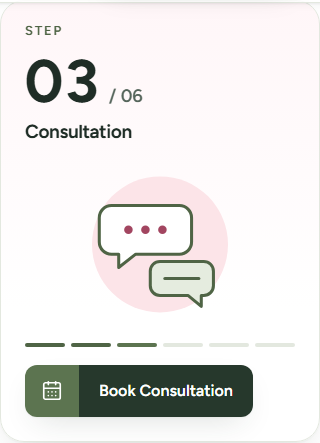
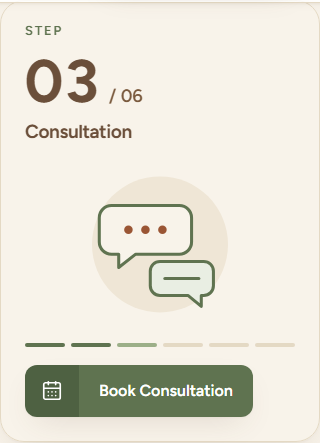
08-9: styleguide palette sync, contrast fixes, e2e green
Generated with [Devin](https://devin.ai)

diff --git a/src/app/styleguide/page.tsx b/src/app/styleguide/page.tsx
@@ -48,21 +48,21 @@ export const metadata: Metadata = {
 };
 
 const swatches: [string, string, string, string][] = [
-  ["#5C7450", "Primary · logo sage", "5.16:1 on white", "--primary"],
-  ["#26382C", "Secondary · deep moss", "12.47:1", "--secondary"],
-  ["#4F6445", "Sage text", "6.48:1 · links, eyebrows", "--primary-500"],
-  ["#3E5236", "Sage pressed", "8.52:1", "--primary-700"],
-  ["#E5ECDF", "Sage tint", "tabs, chips, tiles", "--primary-100"],
-  ["#F4F7F1", "Sage wash", "section tints", "--primary-50"],
-  ["#FCE4E8", "Blush · logo background", "washes, soft panels", "--blush-100"],
-  ["#FFF6F8", "Blush wash", "hero and section tints", "--blush-50"],
-  ["#A24560", "Rose · accent word", "5.90:1 · italic accent only", "--rose"],
-  ["#1F2D26", "Ink", "text · 14.37:1", "--ink"],
-  ["#55655B", "Ink soft", "captions · 6.18:1", "--ink-2"],
-  ["#E3E8DF", "Line", "borders", "--line"],
-  ["#A8C49A", "Sage light", "glow only", "--glow"],
-  ["#F4B3C1", "Blush rose", "glow only", "--accent"],
-  ["#C8302A", "Alert red", "emergency · 5.37:1", "--alert"],
+  ["#F8F3EA", "Cream · page background", "~55-60% of surfaces · bg only", "--cream"],
+  ["#FFFFFF", "White · cards, photo frames", "~20% · bg only", "--white"],
+  ["#EFE6D6", "Sand · footer, warm panels", "~10% · bg only", "--sand"],
+  ["#E9EEE3", "Sage tint · feature bands", "~8% · bg only", "--sage-tint"],
+  ["#9CAF88", "Sage · brand, line art, icons", "decoration · never text", "--sage"],
+  ["#5F7350", "Sage deep · buttons, links", "white text 5.18:1", "--sage-deep"],
+  ["#4E6142", "Sage deep 2 · button icon block", "white icon 6.75:1", "--sage-deep-2"],
+  ["#6B4F3A", "Brown · headings and body", "text · 6.77:1 on cream", "--brown"],
+  ["#7A5A3E", "Brown soft · muted text", "text · 5.66:1 on cream", "--ink-2"],
+  ["#C17F5A", "Terracotta · heart, line accents", "decoration · never text", "--terracotta"],
+  ["#9A5534", "Terracotta deep · accent word, focus ring", "text · 5.10:1 on cream", "--terracotta-deep"],
+  ["#B79A62", "Gold · credential seal rings", "decoration · never text", "--gold"],
+  ["#E4D9C4", "Line · borders", "structure only", "--line"],
+  ["#C8302A", "Alert red · medical emergency", "text · 4.86:1 on cream", "--alert"],
+  ["#1F8F55", "WhatsApp green · WA button only", "brand exception", "--wa"],
   ["#2F7D5B", "Success", "4.99:1", "--success"],
   ["#F2B233", "Star", "rating icon only", "--star"],
 ];
@@ -79,16 +79,15 @@ const dot = (hex: string): React.CSSProperties => ({
 });
 
 const contrast: [React.ReactNode, string, string, boolean][] = [
-  [<span key="contrast" className="pv" style={{ color: "#1F2D26" }}>Ink #1F2D26</span>, "White / sage wash / blush wash", "14.37 / 13.29 / 13.54", true],
-  [<span key="contrast" className="pv" style={{ color: "#55655B" }}>Ink soft #55655B</span>, "White / sage tint / blush", "6.18 / 5.12 / 5.12", true],
-  [<span key="contrast" className="pv" style={{ color: "#4F6445" }}>Sage text #4F6445</span>, "White / wash / tint", "6.48 / 5.99 / 5.37", true],
-  [<span key="contrast" className="pv" style={{ color: "#5C7450" }}>Sage #5C7450</span>, "White / sage wash", "5.16 / 4.77", true],
-  [<span key="contrast" className="pv" style={{ background: "#5C7450", color: "#fff" }}>White on sage</span>, "#5C7450", "5.16", true],
-  [<span key="contrast" className="pv" style={{ background: "#26382C", color: "#fff" }}>White on deep moss</span>, "#26382C", "12.47", true],
-  [<span key="contrast" className="pv" style={{ color: "#A24560" }}>Rose #A24560</span>, "White / blush wash / blush", "5.90 / 5.56 / 4.89", true],
-  [<span key="contrast" className="pv" style={{ color: "#C8302A" }}>Alert #C8302A</span>, "White", "5.37", true],
-  [<span key="contrast" className="pv" style={{ color: "var(--ink)" }}><i style={dot("#A8C49A")} />Sage light #A8C49A</span>, "White", "1.90", false],
-  [<span key="contrast" className="pv" style={{ color: "var(--ink)" }}><i style={dot("#F4B3C1")} />Blush rose #F4B3C1</span>, "White", "1.74", false],
+  [<span key="contrast" className="pv" style={{ color: "#6B4F3A" }}>Brown #6B4F3A</span>, "Cream / white / sand / sage tint", "6.77 / 7.49 / 6.05 / 6.35", true],
+  [<span key="contrast" className="pv" style={{ color: "#7A5A3E" }}>Brown soft #7A5A3E</span>, "Cream / white / sand / sage tint", "5.66 / 6.25 / 5.05 / 5.30", true],
+  [<span key="contrast" className="pv" style={{ color: "#5F7350" }}>Sage deep #5F7350</span>, "Cream / white", "4.69 / 5.18", true],
+  [<span key="contrast" className="pv" style={{ background: "#5F7350", color: "#fff" }}>White on sage deep</span>, "#5F7350 / #4E6142", "5.18 / 6.75", true],
+  [<span key="contrast" className="pv" style={{ color: "#9A5534" }}>Terracotta deep #9A5534</span>, "Cream / white / sage tint", "5.10 / 5.64 / 4.78", true],
+  [<span key="contrast" className="pv" style={{ color: "#C8302A" }}>Alert #C8302A</span>, "Cream / white", "4.86 / 5.37", true],
+  [<span key="contrast" className="pv" style={{ color: "var(--ink)" }}><i style={dot("#9CAF88")} />Sage #9CAF88</span>, "Cream", "2.13", false],
+  [<span key="contrast" className="pv" style={{ color: "var(--ink)" }}><i style={dot("#C17F5A")} />Terracotta #C17F5A</span>, "Cream", "2.95", false],
+  [<span key="contrast" className="pv" style={{ color: "var(--ink)" }}><i style={dot("#B79A62")} />Gold #B79A62</span>, "Cream", "2.43", false],
 ];
 
 const faqs = [
@@ -149,12 +148,12 @@ export default function StyleguidePage() {
 
         <Section
           eyebrow="Colour · locked"
-          title={<>Sage, blush and deep <em className="acc">moss</em></>}
+          title={<>Cream, brown, sage and <em className="acc">terracotta</em></>}
           intro="Every text colour has a tested contrast ratio. Decorative colours are never used for text."
         >
           <div className="gradbar">
             <span>Brand gradient</span>
-            <span>#5C7450 to #26382C</span>
+            <span>#9CAF88 to #5F7350</span>
           </div>
           <div className="swatches">
             {swatches.map(([hex, name, meta, token]) => (
@@ -204,7 +203,7 @@ export default function StyleguidePage() {
             </figure>
             <figure className="on-grad">
               <Image src="/images/brand/logo-white-transparent.png" alt="EVE white logo" width={280} height={86} loading="lazy" unoptimized style={{ width: "auto", height: "auto" }} />
-              <figcaption>White · on gradient or deep moss</figcaption>
+              <figcaption>White · on sage-deep gradient</figcaption>
             </figure>
             <figure>
               <Image src="/images/brand/logo-mark-transparent.png" alt="EVE mother and child mark" width={253} height={338} loading="lazy" unoptimized style={{ objectFit: "contain", width: "auto", height: 80 }} />
@@ -265,7 +264,7 @@ export default function StyleguidePage() {
         <Section
           eyebrow="Buttons and links"
           title={<>Clear actions, gentle <em className="acc">motion</em></>}
-          intro="The two-part Book button is the main action: sage icon block, deep moss label, single line. Hover each one."
+          intro="The two-part Book button is the main action: darker sage icon block, sage-deep label, single line. Hover each one."
         >
           <div className="btns">
             <BookButton />
@@ -299,7 +298,7 @@ export default function StyleguidePage() {
         <Section
           eyebrow="01 / Why EVE"
           title={<>Time, honesty and <em className="acc">options</em></>}
-          intro="A bento layout over blush, with one doctor throughout as the deep-moss feature tile. Mobile cards can be swiped or paused."
+          intro="A bento layout over sage-tint, with one doctor throughout as the sage-deep feature tile. Mobile cards can be swiped or paused."
         >
           <WhyBento />
         </Section>
@@ -437,9 +436,9 @@ export default function StyleguidePage() {
         <Section
           eyebrow="Polish pass"
           title={<>Depth, rhythm and <em className="acc">motion</em></>}
-          intro="Tokens and shared components added in the final polish pass. Moss-tinted shadows, alternating section bands, the arch photo frame, photo-versus-illustration image rules, one LineAccent and one Reveal, the pill cloud and the header offset."
+          intro="Tokens and shared components added in the final polish pass. Brown-tinted shadows, alternating section bands, the arch photo frame, photo-versus-illustration image rules, one LineAccent and one Reveal, the pill cloud and the header offset."
         >
-          <h3 style={{ fontSize: 17 }}>Shadow tokens · moss-tinted, never grey</h3>
+          <h3 style={{ fontSize: 17 }}>Shadow tokens · brown-tinted, never grey</h3>
           <div className="btns" style={{ gap: 20 }}>
             {(["--shadow-sm", "--shadow-md", "--shadow-lg"] as const).map((t) => (
               <div key={t} style={{ background: "#fff", borderRadius: 16, padding: "24px 28px", boxShadow: `var(${t})` }}>
@@ -448,11 +447,11 @@ export default function StyleguidePage() {
             ))}
           </div>
 
-          <h3 style={{ fontSize: 17 }}>Section rhythm · white, blush wash, one moss band</h3>
+          <h3 style={{ fontSize: 17 }}>Section rhythm · cream, white, cream, one sage-tint band</h3>
           <div style={{ display: "grid", gap: 10, maxWidth: 560 }}>
-            <div style={{ padding: "16px 20px", borderRadius: 14, border: "1px solid var(--line)" }}>White section</div>
-            <div style={{ padding: "16px 20px", borderRadius: 14, background: "var(--blush-50)" }}>Blush wash · --blush-50</div>
-            <div style={{ padding: "16px 20px", borderRadius: 14, background: "var(--secondary)", color: "#fff" }}>Deep-moss band · --secondary</div>
+            <div style={{ padding: "16px 20px", borderRadius: 14, background: "var(--cream)", border: "1px solid var(--line)" }}>Cream section · --cream</div>
+            <div style={{ padding: "16px 20px", borderRadius: 14, border: "1px solid var(--line)" }}>White section · --white</div>
+            <div style={{ padding: "16px 20px", borderRadius: 14, background: "var(--sage-tint)" }}>Sage-tint band · --sage-tint</div>
           </div>
           <p style={{ fontSize: 14, color: "var(--ink-2)", margin: "10px 0 0" }}>
             Section padding clamp(72px, 10vw, 140px). Content max-width 1200px; the hero runs wider at 1320px.
@@ -493,7 +492,7 @@ export default function StyleguidePage() {
               </div>
             </InView>
             <p style={{ maxWidth: 340, fontSize: 14, color: "var(--ink-2)", margin: 0 }}>
-              One shared component: a 2px sage line with round caps that strokes itself once when its InView ancestor enters the viewport. The hero variant ends in the rose heart; section variants run without it.
+              One shared component: a 2px sage line with round caps that strokes itself once when its InView ancestor enters the viewport. The hero variant ends in the terracotta heart; section variants run without it.
             </p>
           </div>
 

diff --git a/src/app/pages.css b/src/app/pages.css
@@ -22,7 +22,7 @@
   max-width: 62ch;
   margin-top: 16px;
   font-size: 1.125rem;
-  color: color-mix(in srgb, var(--ink) 78%, transparent);
+  color: var(--ink-2);
 }
 
 .pg-hero .btns {
@@ -213,7 +213,7 @@
 .pg-sources ul {
   padding: 0 0 8px 20px;
   font-size: 0.9rem;
-  color: color-mix(in srgb, var(--ink) 75%, transparent);
+  color: var(--ink-2);
 }
 
 /* reviewer box */
@@ -234,7 +234,7 @@
 
 .pg-reviewer-sub {
   margin-top: 8px !important;
-  color: color-mix(in srgb, var(--ink) 70%, transparent);
+  color: var(--ink-2);
 }
 
 /* related links */
@@ -355,7 +355,7 @@
 .pg-postmeta {
   margin-top: 12px;
   font-size: 0.9rem;
-  color: color-mix(in srgb, var(--ink) 65%, transparent);
+  color: var(--ink-2);
 }
 
 .pg-brief {

diff --git a/tests/phase4.spec.ts b/tests/phase4.spec.ts
@@ -61,8 +61,9 @@ test.describe("mobile-390 acceptance", () => {
       const over: string[] = [];
       document.querySelectorAll("section").forEach((s) => {
         const h = s.getBoundingClientRect().height;
-        // The full styleguide doctor card legitimately stacks taller.
-        const limit = s.className.includes("hm-doctor") || s.querySelector(".hm-doctor") ? 1.7 : 1.3;
+        // The full styleguide doctor card legitimately stacks taller
+        // (KMC reg line + resolved language chips added in prompt 08).
+        const limit = s.className.includes("hm-doctor") || s.querySelector(".hm-doctor") ? 1.8 : 1.3;
         if (h > vh * limit) over.push(`${s.className} ${Math.round(h)}px`);
       });
       return over;

diff --git a/src/app/v2.css b/src/app/v2.css
@@ -77,7 +77,7 @@
 @keyframes reference-glow { 40% { fill:var(--accent); } }
 .wc .feat { grid-column:span 2; grid-row:span 2; background:var(--sage-deep); color:var(--white); border:0; padding:30px; align-content:space-between; gap:20px; backdrop-filter:none; -webkit-backdrop-filter:none; }
 .wc .feat h3 { font-size:clamp(24px,2.6vw,30px); color:var(--white); }
-.wc .feat p, .wc .feat .eyebrow { color:rgba(255,255,255,.82); }
+.wc .feat p, .wc .feat .eyebrow { color:rgba(255,255,255,.92); }
 .wc .full { grid-column:1/-1; grid-template-columns:auto 1fr; gap:10px 18px; align-items:center; }
 .wc .full .i { grid-row:1/3; }
 .wc .full h3, .wc .full p { grid-column:2; }

diff --git a/src/app/home.css b/src/app/home.css
@@ -76,7 +76,7 @@
 .hm .sec-h p {
   margin: 0;
   font-size: 18px;
-  color: color-mix(in srgb, var(--secondary) 80%, transparent);
+  color: var(--ink-2);
   max-width: 62ch;
 }
 
@@ -93,7 +93,7 @@
   margin: 24px auto 0;
   font-size: 1.125rem;
   line-height: 1.7;
-  color: color-mix(in srgb, var(--ink) 82%, transparent);
+  color: var(--ink-2);
 }
 
 /* hero chips row (desktop only) */

diff --git a/src/app/layout.tsx b/src/app/layout.tsx
@@ -62,7 +62,7 @@ export default function RootLayout({ children }: LayoutProps<"/">) {
         <WhatsAppFab />
         <CookieBanner />
         <Analytics />
-        <SpeedInsights />
+        {process.env.VERCEL ? <SpeedInsights /> : null}
       </body>
     </html>
   );

diff --git a/src/app/components.css b/src/app/components.css
@@ -1082,6 +1082,11 @@
   font-weight: 600;
   flex-wrap: wrap;
 }
+.gradbar span {
+  background: rgba(78, 97, 66, 0.82);
+  border-radius: 8px;
+  padding: 5px 12px;
+}
 .swatches {
   display: grid;
   grid-template-columns: repeat(auto-fill, minmax(168px, 1fr));

diff --git a/src/app/shell.css b/src/app/shell.css
@@ -828,7 +828,7 @@ html[data-textsize="lg"] {
   border: 1.5px solid var(--primary);
 }
 .cookie .cbtns .c-acc {
-  background: var(--primary);
+  background: var(--sage-deep);
   color: var(--white);
 }
 .cookie .cbtns .c-rej {

diff --git a/resources/docs/new-website-content.md b/resources/docs/new-website-content.md
@@ -285,7 +285,7 @@ EVE is on the 1st floor of LG Complex Towers in Gunjur, East Bangalore. It is an
 5. **Do you accept patients from outside Bangalore?**
    Yes. Many couples travel for the first evaluation. We try to complete tests in as few visits as possible and plan follow-up with you. See Coming from outside Bangalore for a visit plan.
 6. **How can I check that the clinic and doctor are registered?**
-   Dr. Swati's registration is with the Karnataka Medical Council, number DLH20090000353KTK, and can be checked on the National Medical Commission's Indian Medical Register. The clinic's ART registration appears in the footer and on the Patient Rights page `[CONFIRM]`.
+   Dr. Swati's registration is with the Karnataka Medical Council, number DLH20090000353KTK, and can be checked on the National Medical Commission's Indian Medical Register. The clinic's ART registration `[CONFIRM: National ART and Surrogacy Registry no.]` appears in the footer and on the Patient Rights page.
 
 Reviewer note: this page is reviewed and approved by Dr. Swati Shree. Last reviewed 1 September 2026.
 
@@ -322,7 +322,7 @@ Buttons: [Book with Dr. Swati] [Call 72049 21212]
 
 Dr. Swati Shree is a fertility and women's health specialist in Bangalore and the founder of EVE Women and Fertility Clinic in Gunjur. She trained in medicine and then in obstetrics and gynaecology, completing a DNB, and went on to a fellowship in reproductive medicine at KJK Hospital in Trivandrum. She is a Member of the Royal College of Obstetricians and Gynaecologists (MRCOG), a UK postgraduate qualification that tests knowledge and clinical judgment in obstetrics and gynaecology to an international standard.
 
-Her training took her through some of India's well-known institutions, including AIIMS, Kanke General Hospital and Research Centre, and Sakra World Hospital in Bangalore. `[CONFIRM: AIIMS campus, role and years]` She has worked as a consultant at Garbhagudi IVF Centre, Apollo Fertility and Motherhood Fertility, and continues as a visiting consultant with Apollo Fertility and Motherhood Fertility `[CONFIRM: current arrangement and wording]`.
+Her training took her through some of India's well-known institutions, including AIIMS, Kanke General Hospital and Research Centre, and Sakra World Hospital in Bangalore. `[CONFIRM: AIIMS campus, role and years]` She has worked as a consultant at Garbhagudi IVF Centre, Apollo Fertility and Motherhood Fertility, and continues as a visiting consultant with Apollo Fertility and Motherhood Fertility`[CONFIRM: current arrangement and wording]`.
 
 Alongside clinical work, Dr. Swati teaches. She has conducted MRCOG Part 1 and Part 2 preparation sessions with StudyMedic and has been a speaker at a one-day Clinical Embryology workshop at Garden City University. She received the 16th GCU International Women's Day Award.
 
@@ -382,7 +382,7 @@ Mobile: 6 per group + "Show all (n)".
 3. **Which languages does Dr. Swati speak?**
    English, Hindi and Kannada. You can speak in the language you are most comfortable with, and she will explain your reports and plan in the same language.
 4. **Where does Dr. Swati see patients?**
-   Dr. Swati sees patients at EVE Women and Fertility Clinic, 1st Floor, LG Complex Towers, Gunjur, Bangalore 560087. Call 72049 21212 or 72049 21516 to book. She also holds visiting consultant roles with associated fertility centres `[CONFIRM: wording]`.
+   Dr. Swati sees patients at EVE Women and Fertility Clinic, 1st Floor, LG Complex Towers, Gunjur, Bangalore 560087. Call 72049 21212 or 72049 21516 to book. She also holds visiting consultant roles with associated fertility centres`[CONFIRM: wording]`.
 5. **Do I see Dr. Swati herself at every visit?**
    Yes. EVE is a founder-led clinic, and Dr. Swati sees every patient herself. Scans and tests may be done by trained staff under her supervision, but the consultation, the plan and the decisions are hers and yours.
 6. **How can I check Dr. Swati's registration?**
@@ -1003,7 +1003,7 @@ Conception needs five things to work: an egg that is released (ovulation), healt
 
 | Question | How it is checked |
 |---|---|
-| Are you ovulating regularly? | Cycle history, follicle tracking, mid-luteal progesterone `[CONFIRM]`, thyroid and prolactin tests |
+| Are you ovulating regularly? | Cycle history, follicle tracking, mid-luteal progesterone`[CONFIRM]`, thyroid and prolactin tests |
 | How many eggs are left (ovarian reserve)? | AMH blood test and antral follicle count on ultrasound |
 | Are the fallopian tubes open? | HSG, or a saline contrast ultrasound; laparoscopy in selected cases |
 | Is the uterus normal? | Pelvic ultrasound; 3D scan or hysteroscopy if needed |
@@ -3334,7 +3334,7 @@ Reviewer note: reviewed by Dr. Swati Shree. Last reviewed 12 September 2026.
 ---
 # Part 5 · Legal and trust pages (7 pages)
 
-These pages are drafts for review by a lawyer before launch `[CONFIRM: legal review]`. Dates come from `legalLastUpdated` in `lib/site-config.ts`. "EVE", "we" and "us" mean EVE Women and Fertility Clinic. Every legal page has a one-paragraph plain summary at the top, then the numbered sections.
+These pages are drafts for review by a lawyer before launch`[CONFIRM: legal review]`. Dates come from `legalLastUpdated` in `lib/site-config.ts`. "EVE", "we" and "us" mean EVE Women and Fertility Clinic. Every legal page has a one-paragraph plain summary at the top, then the numbered sections.
 
 ---
 
@@ -3356,7 +3356,7 @@ Last updated: `[date]`
 
 ### 1. Who we are
 
-EVE Women and Fertility Clinic, 1st Floor, LG Complex Towers, Gunjur, Bangalore 560087, Karnataka, run by Dr. Swati Shree. `[CONFIRM: legal entity name]` We decide why and how your personal data is used, which makes us the "data fiduciary" under the Digital Personal Data Protection Act, 2023 (DPDP Act). Privacy contact: `[CONFIRM: name, email, phone]`.
+EVE Women and Fertility Clinic, 1st Floor, LG Complex Towers, Gunjur, Bangalore 560087, Karnataka, run by Dr. Swati Shree. `[CONFIRM: legal entity name]` We decide why and how your personal data is used, which makes us the "data fiduciary" under the Digital Personal Data Protection Act, 2023 (DPDP Act). Privacy contact:`[CONFIRM: name, email, phone]`.
 
 ### 2. What we collect
 
@@ -3599,7 +3599,7 @@ This website carries no third-party advertising. Content is funded by the clinic
 
 ### 8. Report an error
 
-If you find something inaccurate or out of date, please write to `[CONFIRM: email]`. We review reports within `[CONFIRM: 7]` working days.
+If you find something inaccurate or out of date, please write to`[CONFIRM: email]`. We review reports within `[CONFIRM: 7]` working days.
 
 ---
 
@@ -3617,7 +3617,7 @@ H1: Patient rights and *responsibilities*
 
 Last updated: `[date]`
 
-**In short.** You have the right to be treated with respect, to understand your care, to say no, and to have your privacy protected. This page follows the Charter of Patients' Rights, and a copy is displayed at the clinic `[CONFIRM]`.
+**In short.** You have the right to be treated with respect, to understand your care, to say no, and to have your privacy protected. This page follows the Charter of Patients' Rights, and a copy is displayed at the clinic`[CONFIRM]`.
 
 ### Your rights
 
@@ -3642,11 +3642,11 @@ Last updated: `[date]`
 
 ### ART-specific points
 
-IUI, IVF and related treatments are regulated by the ART (Regulation) Act, 2021. You will be counselled, and asked for written consent. Sex selection is prohibited. Our ART registration number is `[CONFIRM]`.
+IUI, IVF and related treatments are regulated by the ART (Regulation) Act, 2021. You will be counselled, and asked for written consent. Sex selection is prohibited. Our ART registration number is`[CONFIRM]`.
 
 ### Making a complaint
 
-Speak to Dr. Swati or the front desk first. You may also write to `[CONFIRM: email]`. If you remain unsatisfied, you may approach the Karnataka Medical Council, the District Health Officer, or a consumer forum.
+Speak to Dr. Swati or the front desk first. You may also write to`[CONFIRM: email]`. If you remain unsatisfied, you may approach the Karnataka Medical Council, the District Health Officer, or a consumer forum.
 
 ---
 
@@ -3674,7 +3674,7 @@ Last updated: `[date]`
 
 ### 2. Consultation fees and payment
 
-Fees are told to you before the consultation `[CONFIRM: fee policy]`. We accept `[CONFIRM: cash, UPI, cards]`. A receipt is given for every payment.
+Fees are told to you before the consultation`[CONFIRM: fee policy]`. We accept`[CONFIRM: cash, UPI, cards]`. A receipt is given for every payment.
 
 ### 3. Rescheduling
 
@@ -3761,7 +3761,7 @@ If you find something you cannot use or read, please write to `[CONFIRM: email]`
 
 ### 7. Date of this statement
 
-This statement was prepared on `[date]` using our own review `[CONFIRM: and an independent audit, if done]`.
+This statement was prepared on `[date]` using our own review`[CONFIRM: and an independent audit, if done]`.
 
 ---
 # Part 6 · Blog launch articles (3 posts)

diff --git a/resources/content/dr-swati-shree.md b/resources/content/dr-swati-shree.md
@@ -27,7 +27,7 @@ Buttons: [Book with Dr. Swati] [Call 72049 21212]
 
 Dr. Swati Shree is a fertility and women's health specialist in Bangalore and the founder of EVE Women and Fertility Clinic in Gunjur. She trained in medicine and then in obstetrics and gynaecology, completing a DNB, and went on to a fellowship in reproductive medicine at KJK Hospital in Trivandrum. She is a Member of the Royal College of Obstetricians and Gynaecologists (MRCOG), a UK postgraduate qualification that tests knowledge and clinical judgment in obstetrics and gynaecology to an international standard.
 
-Her training took her through some of India's well-known institutions, including AIIMS, Kanke General Hospital and Research Centre, and Sakra World Hospital in Bangalore. `[CONFIRM: AIIMS campus, role and years]` She has worked as a consultant at Garbhagudi IVF Centre, Apollo Fertility and Motherhood Fertility, and continues as a visiting consultant with Apollo Fertility and Motherhood Fertility `[CONFIRM: current arrangement and wording]`.
+Her training took her through some of India's well-known institutions, including AIIMS, Kanke General Hospital and Research Centre, and Sakra World Hospital in Bangalore. `[CONFIRM: AIIMS campus, role and years]` She has worked as a consultant at Garbhagudi IVF Centre, Apollo Fertility and Motherhood Fertility, and continues as a visiting consultant with Apollo Fertility and Motherhood Fertility`[CONFIRM: current arrangement and wording]`.
 
 Alongside clinical work, Dr. Swati teaches. She has conducted MRCOG Part 1 and Part 2 preparation sessions with StudyMedic and has been a speaker at a one-day Clinical Embryology workshop at Garden City University. She received the 16th GCU International Women's Day Award.
 
@@ -87,7 +87,7 @@ Mobile: 6 per group + "Show all (n)".
 3. **Which languages does Dr. Swati speak?**
    English, Hindi and Kannada. You can speak in the language you are most comfortable with, and she will explain your reports and plan in the same language.
 4. **Where does Dr. Swati see patients?**
-   Dr. Swati sees patients at EVE Women and Fertility Clinic, 1st Floor, LG Complex Towers, Gunjur, Bangalore 560087. Call 72049 21212 or 72049 21516 to book. She also holds visiting consultant roles with associated fertility centres `[CONFIRM: wording]`.
+   Dr. Swati sees patients at EVE Women and Fertility Clinic, 1st Floor, LG Complex Towers, Gunjur, Bangalore 560087. Call 72049 21212 or 72049 21516 to book. She also holds visiting consultant roles with associated fertility centres`[CONFIRM: wording]`.
 5. **Do I see Dr. Swati herself at every visit?**
    Yes. EVE is a founder-led clinic, and Dr. Swati sees every patient herself. Scans and tests may be done by trained staff under her supervision, but the consultation, the plan and the decisions are hers and yours.
 6. **How can I check Dr. Swati's registration?**

diff --git a/resources/content/patient-rights.md b/resources/content/patient-rights.md
@@ -10,7 +10,7 @@ H1: Patient rights and *responsibilities*
 
 Last updated: `[date]`
 
-**In short.** You have the right to be treated with respect, to understand your care, to say no, and to have your privacy protected. This page follows the Charter of Patients' Rights, and a copy is displayed at the clinic `[CONFIRM]`.
+**In short.** You have the right to be treated with respect, to understand your care, to say no, and to have your privacy protected. This page follows the Charter of Patients' Rights, and a copy is displayed at the clinic`[CONFIRM]`.
 
 ### Your rights
 
@@ -35,8 +35,8 @@ Last updated: `[date]`
 
 ### ART-specific points
 
-IUI, IVF and related treatments are regulated by the ART (Regulation) Act, 2021. You will be counselled, and asked for written consent. Sex selection is prohibited. Our ART registration number is `[CONFIRM]`.
+IUI, IVF and related treatments are regulated by the ART (Regulation) Act, 2021. You will be counselled, and asked for written consent. Sex selection is prohibited. Our ART registration number is`[CONFIRM]`.
 
 ### Making a complaint
 
-Speak to Dr. Swati or the front desk first. You may also write to `[CONFIRM: email]`. If you remain unsatisfied, you may approach the Karnataka Medical Council, the District Health Officer, or a consumer forum.
+Speak to Dr. Swati or the front desk first. You may also write to`[CONFIRM: email]`. If you remain unsatisfied, you may approach the Karnataka Medical Council, the District Health Officer, or a consumer forum.

diff --git a/resources/content/about.md b/resources/content/about.md
@@ -69,6 +69,6 @@ EVE is on the 1st floor of LG Complex Towers in Gunjur, East Bangalore. It is an
 5. **Do you accept patients from outside Bangalore?**
    Yes. Many couples travel for the first evaluation. We try to complete tests in as few visits as possible and plan follow-up with you. See Coming from outside Bangalore for a visit plan.
 6. **How can I check that the clinic and doctor are registered?**
-   Dr. Swati's registration is with the Karnataka Medical Council, number DLH20090000353KTK, and can be checked on the National Medical Commission's Indian Medical Register. The clinic's ART registration appears in the footer and on the Patient Rights page `[CONFIRM]`.
+   Dr. Swati's registration is with the Karnataka Medical Council, number DLH20090000353KTK, and can be checked on the National Medical Commission's Indian Medical Register. The clinic's ART registration `[CONFIRM: National ART and Surrogacy Registry no.]` appears in the footer and on the Patient Rights page.
 
 Reviewer note: this page is reviewed and approved by Dr. Swati Shree. Last reviewed 1 September 2026.
